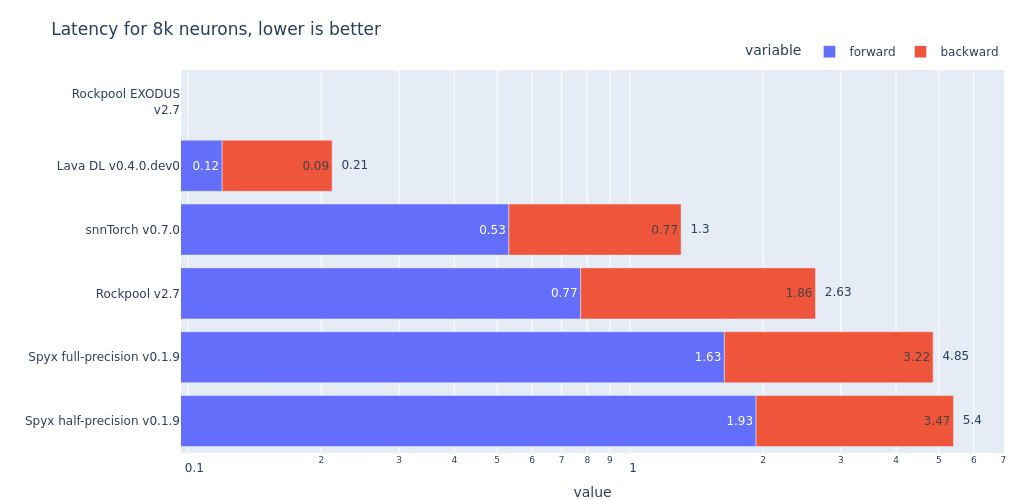
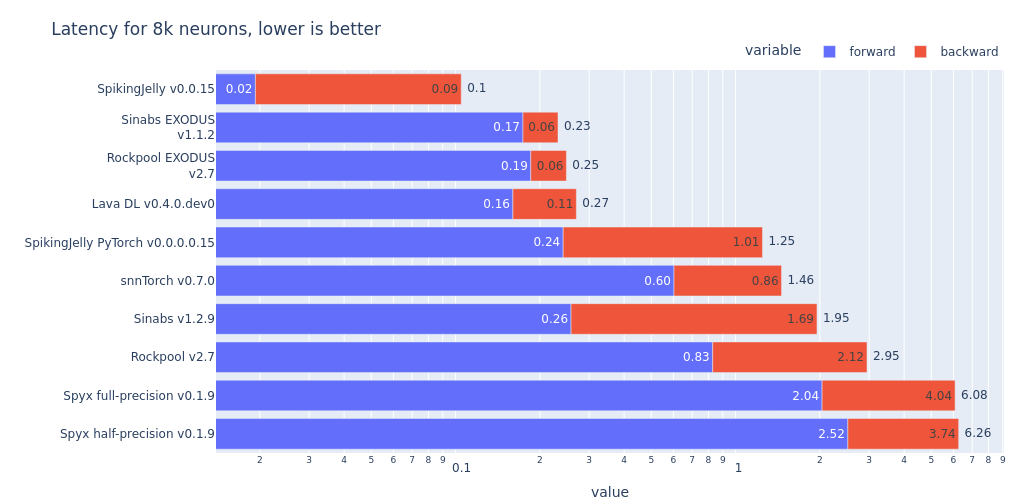
cuda container + sj, spyx, exodus fix

Changed region(s): [[0.0312, 0.12, 0.9688, 0.93], [0.5625, 0.96, 0.625, 1.0]]

diff --git a/content/english/blog/spiking-neural-network-framework-benchmarking/docker/plot.py b/content/english/blog/spiking-neural-network-framework-benchmarking/docker/plot.py
@@ -10,6 +10,7 @@ os.mkdir("./fig")
 ##############
 
 df["total"] = df["forward"] + df["backward"]
+df["memory"]=df["memory"]*1e-6
 df["framework"] = df["framework"].str.replace("<br>", " ")
 df["framework"] = df["framework"].str.replace(
     "SpikingJelly CuPy v0.0.0.0.15", "SpikingJelly v0.0.15"
@@ -58,7 +59,7 @@ def get_runtime_figure(df, rounding=2, title=""):
     return fig
 
 
-def get_memory_figure(df, rounding=2, title=""):
+def get_memory_figure(df, rounding=0, title=""):
     fig = px.bar(
         df,
         y="framework",
@@ -72,9 +73,10 @@ def get_memory_figure(df, rounding=2, title=""):
     fig.update_layout(
         title=title,
         yaxis={"categoryorder": "total descending"},
-        legend=dict(orientation="h", yanchor="bottom", y=1.01, xanchor="right", x=1),
+        # legend=dict(orientation="h", yanchor="bottom", y=1.01, xanchor="right", x=1),
         margin=dict(l=0, r=20, t=70, b=10),
         yaxis_title="",
+        xaxis_title="Max memory usage (MB)"
     )
     # increase size of facet titles
     fig.update_annotations(font_size=14)

diff --git a/content/english/blog/spiking-neural-network-framework-benchmarking/README.md b/content/english/blog/spiking-neural-network-framework-benchmarking/README.md
@@ -37,8 +37,8 @@ The following command will build the docker image, generate the figures and copy
 ./bench.sh
 ```
 
-<!-- The default batch size is 16 but this can be manaually set as shown below for a batch size of 32.
+The default batch size is 16 but this can be manaually set as shown below for a batch size of 32.
 
 ```
 ./bench.sh 32
-``` -->
+```
